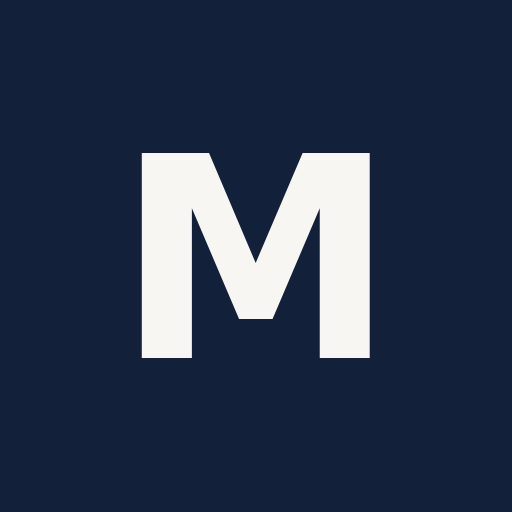
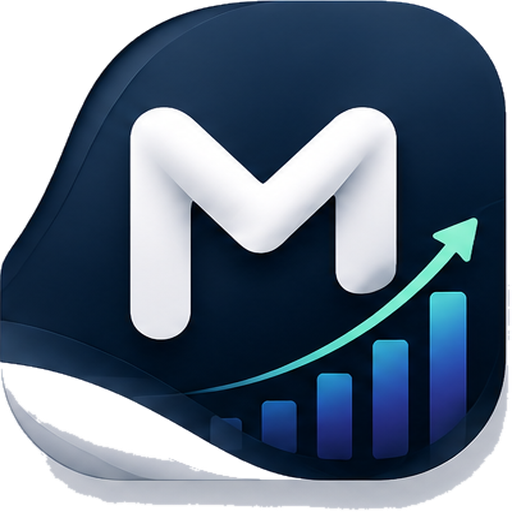
Add files via upload

diff --git a/sw.js b/sw.js
@@ -1,9 +1,9 @@
-// Service worker Minimarket Marín — v4
+// Service worker Minimarket Marín — v5 (ícono oficial "Marín Finanzas")
 // - Permite instalar como app.
 // - NUNCA cachea el HTML (siempre fresco, así el token/código nuevo entra al recargar).
 // - NUNCA intercepta la llamada a Apps Script ni nada de otro dominio
 //   (si lo hiciera, rompería la carga de datos por el redirect de Google).
-const CACHE = 'marin-v4';
+const CACHE = 'marin-v5';
 
 self.addEventListener('install', e => { self.skipWaiting(); });
 